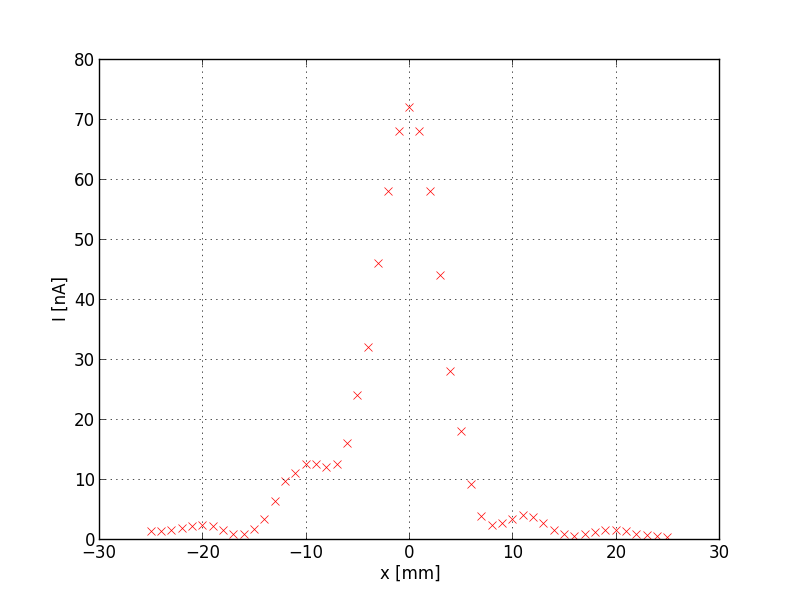
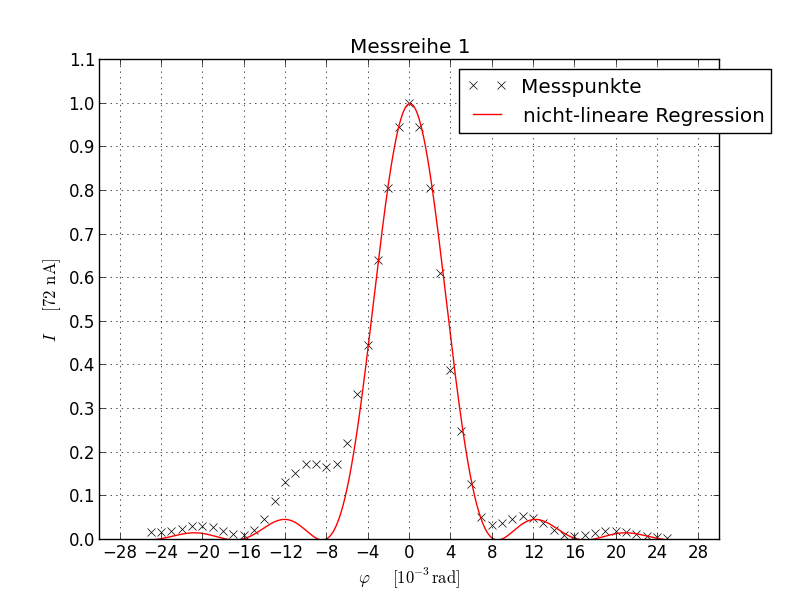
Korrektur. Jetzt sollte alles passen

diff --git a/V406_Beugung/theorie_einleitung.tex b/V406_Beugung/theorie_einleitung.tex
@@ -25,7 +25,7 @@
 	\subsection{Fresnel- und Fraunhoferbeugung}
 		\label{subsec:beugung}
 
-		F"ur die Beschreibung von Beugungserscheinungen gibt es grunds"atzlich zwei verschiedene Versuchsanordnungen. Abb. \ref{abb_fresnel_fraunhofer} skizziert diese.
+		F"ur die Beschreibung von Beugungserscheinungen gibt es grunds"atzlich zwei verschiedene Versuchsanordnungen. Abbildung \ref{abb_fresnel_fraunhofer} skizziert diese.
 
 		\subsubsection{Fresnelbeugung}
 			\label{subsubsec:fresnel}
@@ -47,7 +47,8 @@
 			\begin{figure}[h]
 				\centering
 				\includegraphics[width = 14cm]{fresnel_fraunhofer.jpg}
-				\caption{Unterschied zwischen Fresnelschem und Fraunhoferschem Versuchsaufbau}
+				\caption{Unterschied zwischen Fresnelschem und Fraunhoferschem 
+				\newline Versuchsaufbau \cite{anleitung}}
 				\label{abb_fresnel_fraunhofer}
 			\end{figure}
 
@@ -58,7 +59,7 @@
 		\begin{figure}[h]
 				\centering
 				\includegraphics[width = 9cm]{spalt.jpg}
-				\caption{Einzelspalt}
+				\caption{Einzelspalt \cite{anleitung}}
 				\label{abb_spalt}
 		\end{figure}
 
@@ -153,7 +154,7 @@
 			g(\xi) = \frac{2 \pi \sin{\varphi}}{\lambda}
 		\end{equation}
 
-		stimmen \ref{amplitude_fourier} und \ref{amplitude_einfach} "uberein.
+		stimmen \eqref{amplitude_fourier} und \eqref{amplitude_einfach} "uberein.
 		Das Huygensche Prinzip wird hierdurch also mathematisch formuliert.
 		Das Integral beschreibt dabei die Summation "uber alle Elementarwellen.
 		Die Aperturfunktion $f(x)$ kann zudem hierbei einfach um eine Variable $y$ erweitert werden,

diff --git a/V406_Beugung/graph_2.py b/V406_Beugung/graph_2.py
@@ -1,6 +1,7 @@
 import numpy as np
 import matplotlib.pyplot as plt
-import scipy as sp
+from scipy.optimize import curve_fit
+from matplotlib import rc
 
 x, y = np.genfromtxt('daten_mr_2.txt', unpack=True)
 # Datensatz in x und y einlesen
@@ -17,7 +18,7 @@ y -= .13
 y /= max(y)
 # y normieren
 
-x_ticks = np.arange(-25, 26, 5)
+x_ticks = np.arange(-28, 28.0001, 4)
 y_ticks = np.arange(0, 1.2, .1)
 # Schritte fuer Skalierung festlegen
 
@@ -26,22 +27,21 @@ l = .000633
 
 vor_werte = [b_vorsch]
 
-theorie_funktion = lambda t, b: (np.sin(np.pi * b * (t / 1000) / l) / ((np.pi * b * (t / 1000)) / l)) ** 2
+theorie_funktion = lambda t, b: (np.sin(np.pi * b * ((t) / 1000) / l) / ((np.pi * b * (t / 1000)) / l)) ** 2
 
-p, cov = sp.optimize.curve_fit(theorie_funktion, x, y, p0 = np.array(vor_werte))
+p, cov = curve_fit(theorie_funktion, x, y, p0 = np.array(vor_werte))
 
 print(p)
 
 plt.plot(x, y, 'kx')
 plt.plot(x_theorie, theorie_funktion(x_theorie, p[0]), 'r-')
 plt.title('Messreihe 2')
-plt.xlabel('x [mm]')
-plt.ylabel('I [nA]')
+plt.xlabel(r"$\varphi \quad [10^{-3} \mathrm{rad}]$")
+plt.ylabel(r"$I \quad [165\,\mathrm{nA}]$")
 plt.xticks(x_ticks)
 plt.yticks(y_ticks)
 plt.grid(b = True, which = "major")
 
-plt.legend(('Messpunkge', 'nicht-lineare Regression'))
+plt.legend(('Messpunkte', 'nicht-lineare Regression'), bbox_to_anchor=(1.1, 1))
 
 plt.savefig('graph_2')
-plt.show()

diff --git a/V406_Beugung/graph_1.py b/V406_Beugung/graph_1.py
@@ -1,6 +1,7 @@
 import numpy as np
 import matplotlib.pyplot as plt
-import scipy as sp
+from scipy.optimize import curve_fit
+from matplotlib import rc
 
 x, y = np.genfromtxt('daten_mr_1.txt', unpack=True)
 # Datensatz in x und y einlesen
@@ -17,7 +18,7 @@ y -= .13
 y /= max(y)
 # y normieren
 
-x_ticks = np.arange(-25, 26, 5)
+x_ticks = np.arange(-28, 28.001, 4)
 y_ticks = np.arange(0, 1.2, .1)
 # Schritte fuer Skalierung festlegen
 
@@ -28,20 +29,19 @@ vor_werte = [b_vorsch]
 
 theorie_funktion = lambda t, b: (np.sin(np.pi * b * (t / 1000) / l) / ((np.pi * b * (t / 1000)) / l)) ** 2
 
-p, cov = sp.optimize.curve_fit(theorie_funktion, x, y, p0 = np.array(vor_werte))
+p, cov = curve_fit(theorie_funktion, x, y, p0 = np.array(vor_werte))
 
 print(p)
 
 plt.plot(x, y, 'kx')
 plt.plot(x_theorie, theorie_funktion(x_theorie, p[0]), 'r-')
 plt.title('Messreihe 1')
-plt.xlabel('x [mm]')
-plt.ylabel('I [nA]')
+plt.xlabel(r"$\varphi \quad [10^{-3} \mathrm{rad}]$")
+plt.ylabel(r"$I \quad [72\,\mathrm{nA}]$")
 plt.xticks(x_ticks)
 plt.yticks(y_ticks)
 plt.grid(b = True, which = "major")
 
-plt.legend(('Messpunkge', 'nicht-lineare Regression'))
+plt.legend(('Messpunkte', 'nicht-lineare Regression'), bbox_to_anchor=(1.1, 1))
 
 plt.savefig('graph_1')
-plt.show()

diff --git a/V406_Beugung/graph_3.py b/V406_Beugung/graph_3.py
@@ -18,12 +18,12 @@ y -= .13
 y /= max(y)
 # y normieren
 
-x_ticks = np.arange(-25, 26, 5)
+x_ticks = np.arange(-28, 28.001, 4)
 y_ticks = np.arange(0, 1.2, .1)
 # Schritte fuer Skalierung festlegen
 
 b_vorsch = .04
-s_vorsch = .16
+s_vorsch = .250
 l = .000633
 
 vor_werte = [b_vorsch, s_vorsch]
@@ -37,16 +37,21 @@ p2, cov2 = curve_fit(theorie_funktion, x, y, p0 = np.array(vor_werte), maxfev = 
 print(p)
 
 plt.plot(x, y, 'kx')
-plt.plot(x_theorie, theorie_funktion(x_theorie, p[0], p[1]), 'r-')
+line1 = plt.plot(x_theorie, theorie_funktion(x_theorie, p[0], p[1]))
+
+plt.setp(line1, linewidth = .5, color = 'r', ls = '-', aa = True)
+
 plt.plot(x_theorie, theorie_funktion_2(x_theorie, p2[0]), 'b--')
 plt.title('Messreihe 3')
-plt.xlabel('x [mm]')
-plt.ylabel('I [nA]')
+plt.xlabel(r"$\varphi \quad [10^{-3} \mathrm{rad}]$")
+plt.ylabel(r"$I \quad [38\,\mathrm{nA}]$")
 plt.xticks(x_ticks)
 plt.yticks(y_ticks)
 plt.grid(b = True, which = "major")
 
-plt.legend(('Messpunkge', 'nicht-lineare Regression'))
+plt.legend(('Messpunkte', 'nicht-lineare Regression', 'Einzelspaltmuster'), bbox_to_anchor=(1.1, 1))
 
-plt.savefig('graph_2')
-plt.show()
+fig = plt.gcf()
+fig.set_size_inches(9, 6)
+
+plt.savefig('graph_3.png', pad_inches = 0)

diff --git a/V406_Beugung/protokoll.tex b/V406_Beugung/protokoll.tex
@@ -24,29 +24,6 @@
 	%Formatiert urls
 	\usepackage{url}
 
-	%Bibliographie
-	\usepackage[numbers]{natbib}
-
-		%Bibtex: Nachnamen in Kapitälchen
-		%\renewcommand*{\mkbibnamelast}[1]{\textsc{#1}}
-		\newcommand*{\mkbibnamelast}[1]{\textsc{#1}}
-
-		% Makros für Anhang + Referenzen
-		\newcommand{\anhang}{
-			\clearpage		% Anhang auf eine extra Seite packen
-			\setcounter{page}{0}	
-			\pagenumbering{Roman}	% Anhang wird in römischen Seitenzahlen numeriert
-			\appendix		% Kapitelnummerierung in Großbuchstaben statt Zahlen.
-		}
-
-		\newcommand{\referenzen}{
-			\bibliographystyle{alphadin} 			% Alphabetisch sortiert im DIN-Format
-			\addcontentsline{toc}{section}{Referenzen}
-			\phantomsection					% Referenzen ins Inhaltsverzeichnis
-			\renewcommand{\refname}{\section*{Referenzen}\vspace*{-1em}} % Benennt das Kapitel um
-			\bibliography{../bib.bib} 	% Die BibTeX-Datei einbinden
-		}
-
 	% Seitenlayout ändern mit Fancy
 	\usepackage{fancyhdr}	% Paket zum bequemeren Verändern des Seitenlayouts
 
@@ -133,6 +110,6 @@
 
 	\input{diskussion_literatur.tex}
 
-	\anhang
+	%\anhang
 
 \end{document}

diff --git a/V406_Beugung/auswertung.tex b/V406_Beugung/auswertung.tex
@@ -46,7 +46,7 @@
 
 			\begin{figure}[H]
 				\centering
-				\includegraphics[width = 14cm]{graph1.jpg}
+				\includegraphics[width = 16cm]{graph_1.png}
 				\caption{Graphische Darstellung der Beugung eines festen Einfachspalt}
 				\label{graph1}
 			\end{figure}
@@ -92,7 +92,7 @@
 
 		\begin{figure}[H]
 			\centering
-			\includegraphics[width = 14cm]{graph2.jpg}
+			\includegraphics[width = 16cm]{graph_2.png}
 			\caption{Graphische Darstellung der Beugung eines variablen Einfachspalt}
 			\label{graph2}
 		\end{figure}
@@ -122,7 +122,7 @@
 
 		\begin{figure}[H]
 			\centering
-			\includegraphics[width = 14cm]{graph3.jpg}
+			\includegraphics[width = 16cm]{graph_3.png}
 			\caption{Graphische Darstellung der Beugung eines festen Doppelspalts}
 			\label{graph3}
 		\end{figure}

diff --git a/V406_Beugung/diskussion_literatur.tex b/V406_Beugung/diskussion_literatur.tex
@@ -21,6 +21,8 @@
 	Zwar war das Ergebnis in derselben Gr"osenordnung wie die Herstellerangabe, die Empfindlichkeit der Optik war jedoch so gro"s, dass wir die Aussagekraft dieser Messung stark bezweifeln.
 	Die geringe Tiefensch"arfe des Mikroskopes machte eine genaue justierung auf die R"ander des Spaltes sehr schwierig.
 
-\section{Literatur}
+%\section{Literatur}
 
-	Alle Grafiken wurden eigenst"andig mit Gnuplot oder pyplot erstellt oder aus der Versuchsanleitung "`Beugung am Spalt"' der TU Dortmund (Stand 29.10.12) entnommen.
+	\begin{thebibliography}{9}
+		\bibitem{anleitung} Physikalisches Anf"angerpraktikum der TU Dortmund: Versuch Nr. 602 - R"ontgen-Emissions- und Absorptionsspektren. Stand: Oktober 2012.
+	\end{thebibliography}

diff --git a/V406_Beugung/theoriekurve_1.py b/V406_Beugung/theoriekurve_1.py
@@ -10,10 +10,9 @@ plt.plot(x, (np.sin(x) / x) ** 2, 'r-')
 plt.plot(x, (np.sin(x) / x), 'k-')
 plt.title('Theoriekurve')
 plt.grid(b = True, which = "major")
-plt.xlabel('x [mm]')
+plt.xlabel(r'$\varphi \quad [10^{-3}\,\mathrm{rad}]$')
 plt.ylabel('B, I auf 1 normiert')
 
-plt.legend((r'Intensit\" at I($\varphi$)', r'Amplitude $B^2(\varphi)$'))
+plt.legend((r'Intensit\" at I($\varphi$)', r'Amplitude $B(\varphi)$'))
 
-plt.savefig('theorie_1')
-plt.show()
+plt.savefig('theorie_1.png')

diff --git a/V406_Beugung/theoriekurve_2.py b/V406_Beugung/theoriekurve_2.py
@@ -18,11 +18,10 @@ l = .000633
 plt.plot(x, np.cos(np.pi * s * (x / 1000) / l) ** 2 * (np.sin(np.pi * b * (x / 1000) / l) / ((np.pi * b * (x / 1000)) / l)) ** 2, 'r-')
 plt.grid(b = True, which = "major")
 plt.xticks(x_ticks)
-plt.xlabel('x [mm]')
+plt.xlabel(r'$\varphi \quad [10^{-3}\,\mathrm{rad}]$')
 plt.yticks(y_ticks)
 plt.ylabel(r'B, I normiert auf 1')
 
 plt.legend((r'Intensit\" at I($\varphi$)', ''))
 
-plt.savefig('theorie_2')
-plt.show()
+plt.savefig('theorie_2.png')

diff --git a/V406_Beugung/v406_protokoll_durchfuehrung.tex b/V406_Beugung/v406_protokoll_durchfuehrung.tex
@@ -21,7 +21,7 @@
 			\begin{figure}[h]
 					\centering
 					\includegraphics[width = 14cm]{Versuchsaufbau.png}
-					\caption{Versuchsaufbau}
+					\caption{Versuchsaufbau \cite{anleitung}}
 					\label{Versuchsaufbau}
 			\end{figure}
 
